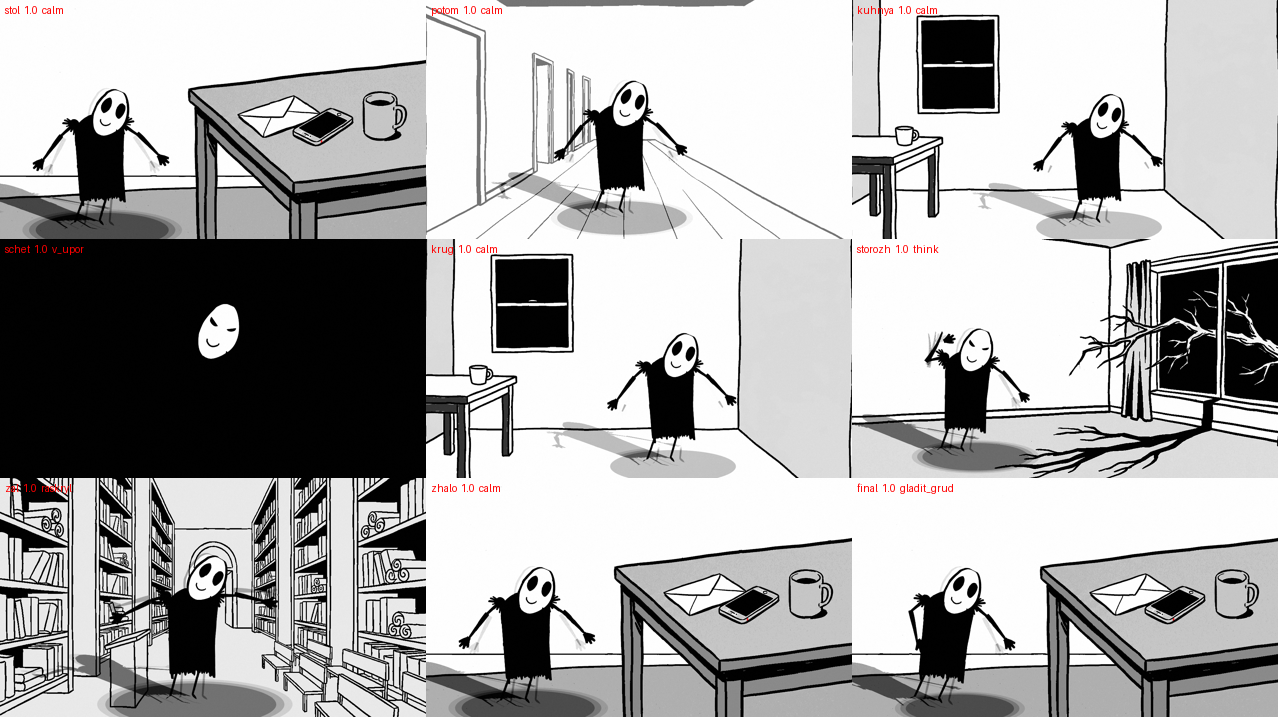
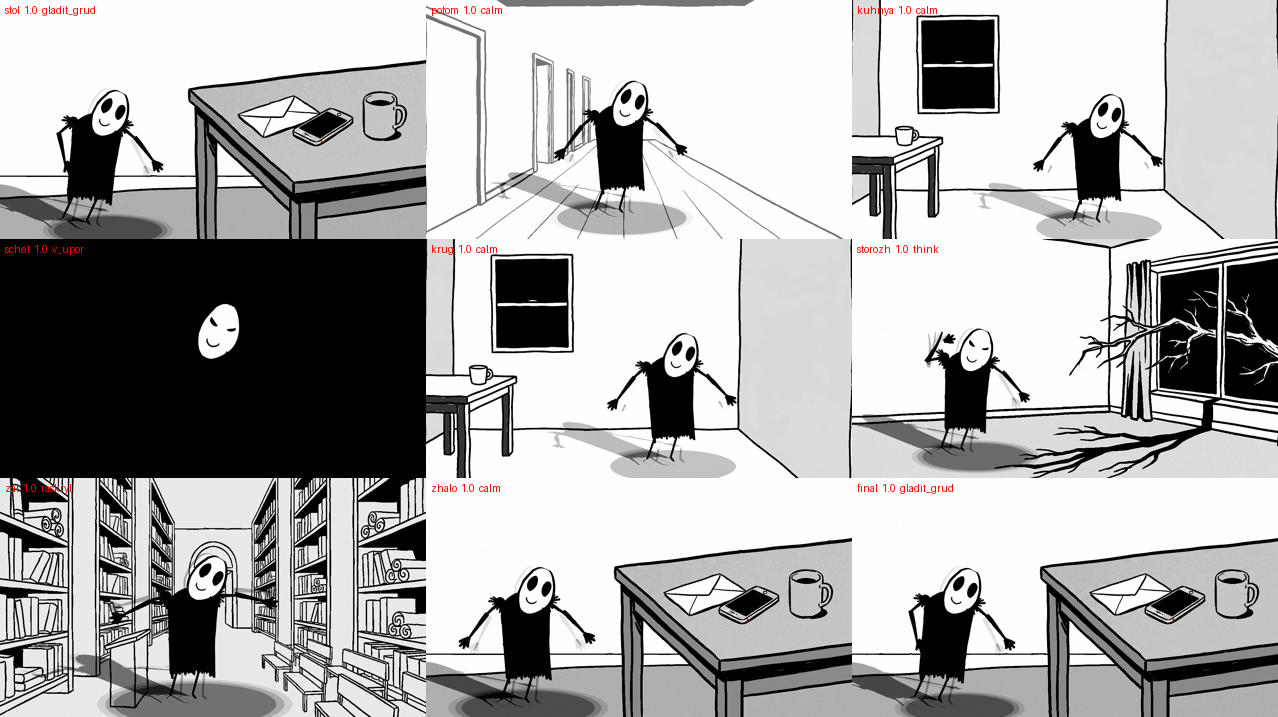
Номер курса — девять, и он нарисован, а не подменён [only: trevoga]
Студия присвоила «Тревоге» девятый номер. Метка встаёт на грудь в первом и
последнем кадре, как в предыдущих роликах, и звучит в подписи: «курс лекций
номер девять».

Девятка НЕ является восьмёркой с подменённой цифрой. У неё свой наклон рваного
круга, свой разрыв и свой seed чернильного фильтра: при общем seed дрожание
линии совпало бы у обеих меток, и серия читалась бы как один штамп с
меняющимся числом, а не как рисунок от руки. Сама цифра рисуется одним
движением — петля и хвост с уводом влево, рука не дотягивает хвост до
вертикали.

Координаты на груди сняты ПРОБНЫМ РЕНДЕРОМ, а не пересчитаны от коридорных: с
первого раза метка села низко и мелко, поправлено по кадру из движка. Контактный
лист тут бесполезен — он пропов не рисует вовсе (реестр §XVIII).

Заодно подрезано под правило 3–7–21: замеры завода пришли длиннее модели и
вынесли перелом на 28.8 с. Пятая реплика короче на два слова, четыре паузы
первой трети ужаты на десятую — перелом 26.1 с, в окне.

script_lint 96/100. Все тринадцать гейтов чисты.

Claude-Session: https://claude.ai/code/session_01L6KYpfH3dnZra3BvQXnnqy

Changed region(s): [[0.0, 0.1227, 0.1526, 0.3375], [0.1221, 0.3068, 0.1526, 0.3375], [0.0305, 0.0, 0.061, 0.0307]]

diff --git a/examples/lektorij/trevoga-VO.md b/examples/lektorij/trevoga-VO.md
@@ -54,7 +54,7 @@
 **ПЕРВЫЕ ДВЕ СЕКУНДЫ — ЧУЖАЯ СТРОКА, КОТОРУЮ ЗРИТЕЛЬ ЧИТАЛ САМ.** Ни тезиса, ни
 обещания: четыре слова из переписки и дата. От кого она — не говорится ни разу,
 и не надо: каждый достроит своё. Правило 3–7–21 выполнено: крючок на 0:01,
-первый удар голосом на 0:04.8, перелом на 0:27.7.
+первый удар голосом на 0:04.8, перелом на 0:26.1.
 
 **ГЛАВНОЕ УЗНАВАНИЕ — VO-7.** «Вы не помните, чего боялись в среду. Но помните,
 что не спали в четверг.» Асимметрия памяти: повод стёрся, цена осталась.
@@ -76,17 +76,20 @@
 одно письмо». Какое именно — зритель знает, и добивка спрашивает его об этом
 прямо: «Догадываетесь какое?»
 
-**НОМЕР КУРСА НЕ ПРОСТАВЛЕН.** «Личным границам» студия присвоила восьмой;
-у «Тревоги» номера пока нет, и в подписи его нет тоже. Выдуманная цифра ушла бы
-в ленту и разошлась с каталогом. Как только номер назначат — строка подписи и
-метка на груди добавляются в две правки.
+**НОМЕР КУРСА — ДЕВЯТЬ, ПРИСВОЕН СТУДИЕЙ.** Девятка нарисована под этот ролик
+(`props/nomer-09.svg`) и не является восьмёркой с подменённой цифрой: у неё свой
+наклон рваного круга, свой разрыв и свой seed чернильного фильтра. При общем
+seed дрожание линии совпало бы у обеих меток, и серия читалась бы как один штамп
+с меняющимся числом. Сама цифра рисуется ОДНИМ движением — петля и хвост с
+уводом влево, рука не дотягивает хвост до вертикали. Координаты на груди сняты
+пробным рендером: контактный лист пропов не рисует вовсе.
 
 **ЦВЕТА В РОЛИКЕ НЕТ, И ЭТО ЗАМЕРЕНО.** Красная полоска уведомления на телефоне
 уцелела после квантования, но занимает 42 пикселя — 0.005% кадра. После зерна,
 снега и дрожания линии её не видно. Ролик идёт монохромным, как три ролика
 «Логики»: одно цветное пятно — потолок, а не обязанность.
 
-> Формат: МОНОЛОГ-СЧЁТ, 98 секунд, 19 реплик, 6 локаций.
+> Формат: МОНОЛОГ-СЧЁТ, 102 секунд, 19 реплик, 6 локаций.
 > Проверяется `tools/script_lint.py`.
 
 ## Дорожка голоса (VO)
@@ -98,24 +101,24 @@
 | # | Тайм | Бит | Реплика (интонация) | Локация / ход |
 |---|------|-----|----------------------|----------------|
 | VO-1 | 0:01.0–0:05.0 | ХУК | ««Нам надо поговорить.» Вы прочитали это в среду.» *(ровно, как зачитывают чужую строку; никакого нажима — зритель сам достроит, от кого она; регистр: тревога)* | стол с непрочитанным |
-| VO-2 | 0:05.4–0:08.6 | ДОБИВКА | «Сегодня пятница. Вы не ответили.» *(две короткие фразы, вторая суше; буднично, как сообщают факт; регистр: приговор)* | там же, в упор |
-| VO-3 | 0:09.2–0:16.1 | ОТРИЦАНИЕ | «Я не говорю, что вы трус. Я уважаю осторожность. Особенно бессрочную.» *(ЛОЖНОЕ СОГЛАСИЕ, и им закрывают возражение «я просто выбираю момент»: первая фраза примирительно, третья — вниз и почти ласково; регистр: ирония)* | там же |
-| VO-4 | 0:16.6–0:22.1 | ПУЛЕМЁТ | «Позвонить врачу — потом. Открыть письмо из банка — потом. Спросить, что он имел в виду — потом.» *(очередь с эскалацией, темп растёт, идёт НА КАМЕРУ; каждое «потом» короче предыдущего; регистр: тревога)* | коридор, шагает на зрителя |
-| VO-5 | 0:22.5–0:28.2 | УДАР | «И каждый раз на десять минут становится легче. Знакомо?» *(первая половина ровно, вопрос вверх и без нажима — приглашение кивнуть; регистр: вовлечение)* | ночная кухня |
-| VO-6 | 0:29.2–0:33.5 | РАЗВОРОТ | «А теперь считайте, во сколько вам обошлись эти десять минут.» *(ПЕРЕЛОМ РОЛИКА. Ровно, почти буднично; дальше пауза — зритель считает сам; регистр: приговор)* | ПУСТОТА: чёрный кадр |
-| VO-7 | 0:34.3–0:40.1 | УДАР | «Вы не помните, чего боялись в среду. Но помните, что не спали в четверг.» *(ГЛАВНОЕ УЗНАВАНИЕ РОЛИКА. Две половины разведены паузой: сначала что забыто, потом что осталось; регистр: приговор)* | там же, в упор |
-| VO-8 | 0:41.1–0:47.2 | ЦЕНА | «Тревога не ушла. Вы взяли её в рассрочку и дышите в темноту до утра.» *(СТОЛКНОВЕНИЕ РЕГИСТРОВ: состояние меряется банковским словом; «дышите в темноту» — вниз и тише всего; регистр: приговор)* | там же |
-| VO-9 | 0:48.4–0:55.6 | ОТРИЦАНИЕ | «И это не слабость и не судьба. Избегание работает мгновенно, а счёт приходит позже.» *(впервые теплее — здесь снимают вину, а не ставят диагноз; регистр: тепло)* | ночная кухня |
-| VO-10 | 0:56.1–1:02.7 | УДАР | «Тревога просит проверить. Проверка держит десять минут — и просит ещё.» *(ЕДИНСТВЕННОЕ МЕСТО, ГДЕ КУРС ЧТО-ТО ДАЁТ: круг назван без единого термина. Ровно, как читают инструкцию; регистр: приговор)* | там же, крупнее |
-| VO-11 | 1:03.7–1:07.7 | ОБРАЗ | «Тревога — сторож. Он не умеет отличать вора от ветра.» *(живо, почти с усмешкой; сторож не враг, он честно работает; регистр: тепло)* | окно с веткой |
-| VO-12 | 1:08.5–1:12.5 | ВЗЛЁТ | «Сторожа не увольняют. Его учат смотреть.» *(спокойно, с достоинством; ход отдают, а не продают; регистр: тепло)* | там же, крупнее |
-| VO-13 | 1:13.0–1:17.1 | КАЧЕЛИ | «Вы не трус. Трусу всё равно — он не проверяет по три раза.» *(ВОЗВРАТ ДОСТОИНСТВА: ровно, как констатируют, без утешения в голосе; регистр: тепло)* | там же, в упор |
-| VO-14 | 1:18.0–1:21.0 | ШУТКА | «Можно и без курса: не открывать письма вообще.» *(лёгкая ирония, без превосходства — смеются над способом, не над человеком; регистр: ирония)* | там же, вполоборота |
-| VO-15 | 1:21.3–1:23.7 | ШУТКА-добивка | «Работает ровно до звонка из банка.» *(спокойная добивка, вниз; предел назван и не подчёркнут; регистр: ирония)* | там же, в упор |
-| VO-16 | 1:24.7–1:29.1 | ПРЕЗЕНТАЦИЯ | «Курс так и называется: тревога и как с ней жить. Десять лекций.» *(деловой тон, как объявляют пункт; регистр: буднично)* | зал Лектория |
-| VO-17 | 1:29.6–1:31.9 | ПРЕЗЕНТАЦИЯ | «Все десять — бесплатно.» *(тем же будничным тоном, что и число: нажмёшь — прозвучит как акция и зритель начнёт искать подвох; регистр: буднично)* | там же, в упор |
-| VO-18 | 1:32.8–1:37.7 | ЖАЛО | «Откройте сегодня одно письмо. Догадываетесь какое?» *(ИЗМЕРИМОЕ ДЕЙСТВИЕ; с вызовом, почти дружелюбно, вверх на конце; регистр: вызов)* | стол с непрочитанным |
-| VO-19 | 1:39.0–1:43.0 | ПОДПИСЬ | «Всё, идём дальше. Лекторий Мейстера. Поехали!» *(как объявляют следующий пункт; последнее слово — вверх; регистр: буднично)* | ТОТ ЖЕ КАДР, ЧТО И ПЕРВЫЙ |
+| VO-2 | 0:05.3–0:08.3 | ДОБИВКА | «Сегодня пятница. Вы не ответили.» *(две короткие фразы, вторая суше; буднично, как сообщают факт; регистр: приговор)* | там же, в упор |
+| VO-3 | 0:08.7–0:15.5 | ОТРИЦАНИЕ | «Я не говорю, что вы трус. Я уважаю осторожность. Особенно бессрочную.» *(ЛОЖНОЕ СОГЛАСИЕ, и им закрывают возражение «я просто выбираю момент»: первая фраза примирительно, третья — вниз и почти ласково; регистр: ирония)* | там же |
+| VO-4 | 0:15.8–0:21.3 | ПУЛЕМЁТ | «Позвонить врачу — потом. Открыть письмо из банка — потом. Спросить, что он имел в виду — потом.» *(очередь с эскалацией, темп растёт, идёт НА КАМЕРУ; каждое «потом» короче предыдущего; регистр: тревога)* | коридор, шагает на зрителя |
+| VO-5 | 0:21.6–0:25.1 | УДАР | «И каждый раз на десять минут легче. Знакомо?» *(первая половина ровно, вопрос вверх и без нажима — приглашение кивнуть; регистр: вовлечение)* | ночная кухня |
+| VO-6 | 0:26.1–0:30.3 | РАЗВОРОТ | «А теперь считайте, во сколько вам обошлись эти десять минут.» *(ПЕРЕЛОМ РОЛИКА. Ровно, почти буднично; дальше пауза — зритель считает сам; регистр: приговор)* | ПУСТОТА: чёрный кадр |
+| VO-7 | 0:31.1–0:36.9 | УДАР | «Вы не помните, чего боялись в среду. Но помните, что не спали в четверг.» *(ГЛАВНОЕ УЗНАВАНИЕ РОЛИКА. Две половины разведены паузой: сначала что забыто, потом что осталось; регистр: приговор)* | там же, в упор |
+| VO-8 | 0:37.9–0:44.0 | ЦЕНА | «Тревога не ушла. Вы взяли её в рассрочку и дышите в темноту до утра.» *(СТОЛКНОВЕНИЕ РЕГИСТРОВ: состояние меряется банковским словом; «дышите в темноту» — вниз и тише всего; регистр: приговор)* | там же |
+| VO-9 | 0:45.2–0:52.4 | ОТРИЦАНИЕ | «И это не слабость и не судьба. Избегание работает мгновенно, а счёт приходит позже.» *(впервые теплее — здесь снимают вину, а не ставят диагноз; регистр: тепло)* | ночная кухня |
+| VO-10 | 0:52.9–0:59.6 | УДАР | «Тревога просит проверить. Проверка держит десять минут — и просит ещё.» *(ЕДИНСТВЕННОЕ МЕСТО, ГДЕ КУРС ЧТО-ТО ДАЁТ: круг назван без единого термина. Ровно, как читают инструкцию; регистр: приговор)* | там же, крупнее |
+| VO-11 | 1:00.6–1:04.9 | ОБРАЗ | «Тревога — сторож. Он не умеет отличать вора от ветра.» *(живо, почти с усмешкой; сторож не враг, он честно работает; регистр: тепло)* | окно с веткой |
+| VO-12 | 1:05.7–1:09.7 | ВЗЛЁТ | «Сторожа не увольняют. Его учат смотреть.» *(спокойно, с достоинством; ход отдают, а не продают; регистр: тепло)* | там же, крупнее |
+| VO-13 | 1:10.2–1:14.3 | КАЧЕЛИ | «Вы не трус. Трусу всё равно — он не проверяет по три раза.» *(ВОЗВРАТ ДОСТОИНСТВА: ровно, как констатируют, без утешения в голосе; регистр: тепло)* | там же, в упор |
+| VO-14 | 1:15.2–1:18.3 | ШУТКА | «Можно и без курса: не открывать письма вообще.» *(лёгкая ирония, без превосходства — смеются над способом, не над человеком; регистр: ирония)* | там же, вполоборота |
+| VO-15 | 1:18.6–1:20.8 | ШУТКА-добивка | «Работает ровно до звонка из банка.» *(спокойная добивка, вниз; предел назван и не подчёркнут; регистр: ирония)* | там же, в упор |
+| VO-16 | 1:21.8–1:26.1 | ПРЕЗЕНТАЦИЯ | «Курс так и называется: тревога и как с ней жить. Десять лекций.» *(деловой тон, как объявляют пункт; регистр: буднично)* | зал Лектория |
+| VO-17 | 1:26.6–1:28.9 | ПРЕЗЕНТАЦИЯ | «Все десять — бесплатно.» *(тем же будничным тоном, что и число: нажмёшь — прозвучит как акция и зритель начнёт искать подвох; регистр: буднично)* | там же, в упор |
+| VO-18 | 1:29.8–1:34.7 | ЖАЛО | «Откройте сегодня одно письмо. Догадываетесь какое?» *(ИЗМЕРИМОЕ ДЕЙСТВИЕ; с вызовом, почти дружелюбно, вверх на конце; регистр: вызов)* | стол с непрочитанным |
+| VO-19 | 1:36.0–1:41.9 | ПОДПИСЬ | «Всё, идём дальше. Лекторий Мейстера, курс лекций номер девять. Поехали!» *(как объявляют следующий пункт; гладит себя по груди — проявляется номер; последнее слово — вверх; регистр: буднично)* | ТОТ ЖЕ КАДР, ЧТО И ПЕРВЫЙ |
 
 ## ТЗ НА ОЗВУЧКУ
 
@@ -132,10 +135,10 @@
 
 | # | слог/с | регистр | пауза после | что делает реплика |
 |---|--------|---------|-------------|--------------------|
-| 1 | 5.2 | тревога | 0.4 с | ровно, как зачитывают чужую строку |
-| 2 | 4.7 | приговор | 0.6 с | две короткие фразы, вторая суше |
-| 3 | 5.2 | ирония | 0.4 с | ЛОЖНОЕ СОГЛАСИЕ, и им закрывают возражение «я просто выбираю момент»: первая фраза примирительно, третья — вниз и почти ласково |
-| 4 | 6.3 | тревога | 0.4 с | очередь с эскалацией, темп растёт, идёт НА КАМЕРУ |
+| 1 | 5.2 | тревога | 0.3 с | ровно, как зачитывают чужую строку |
+| 2 | 4.7 | приговор | 0.4 с | две короткие фразы, вторая суше |
+| 3 | 5.2 | ирония | 0.3 с | ЛОЖНОЕ СОГЛАСИЕ, и им закрывают возражение «я просто выбираю момент»: первая фраза примирительно, третья — вниз и почти ласково |
+| 4 | 6.3 | тревога | 0.3 с | очередь с эскалацией, темп растёт, идёт НА КАМЕРУ |
 | 5 | 4.4 | вовлечение | 1.0 с | первая половина ровно, вопрос вверх и без нажима — приглашение кивнуть |
 | 6 | 4.9 | приговор | 0.8 с | ПЕРЕЛОМ РОЛИКА. Ровно, почти буднично |
 | 7 | 4.4 | приговор | 1.0 с | ГЛАВНОЕ УЗНАВАНИЕ РОЛИКА. Две половины разведены паузой: сначала что забыто, потом что осталось |
